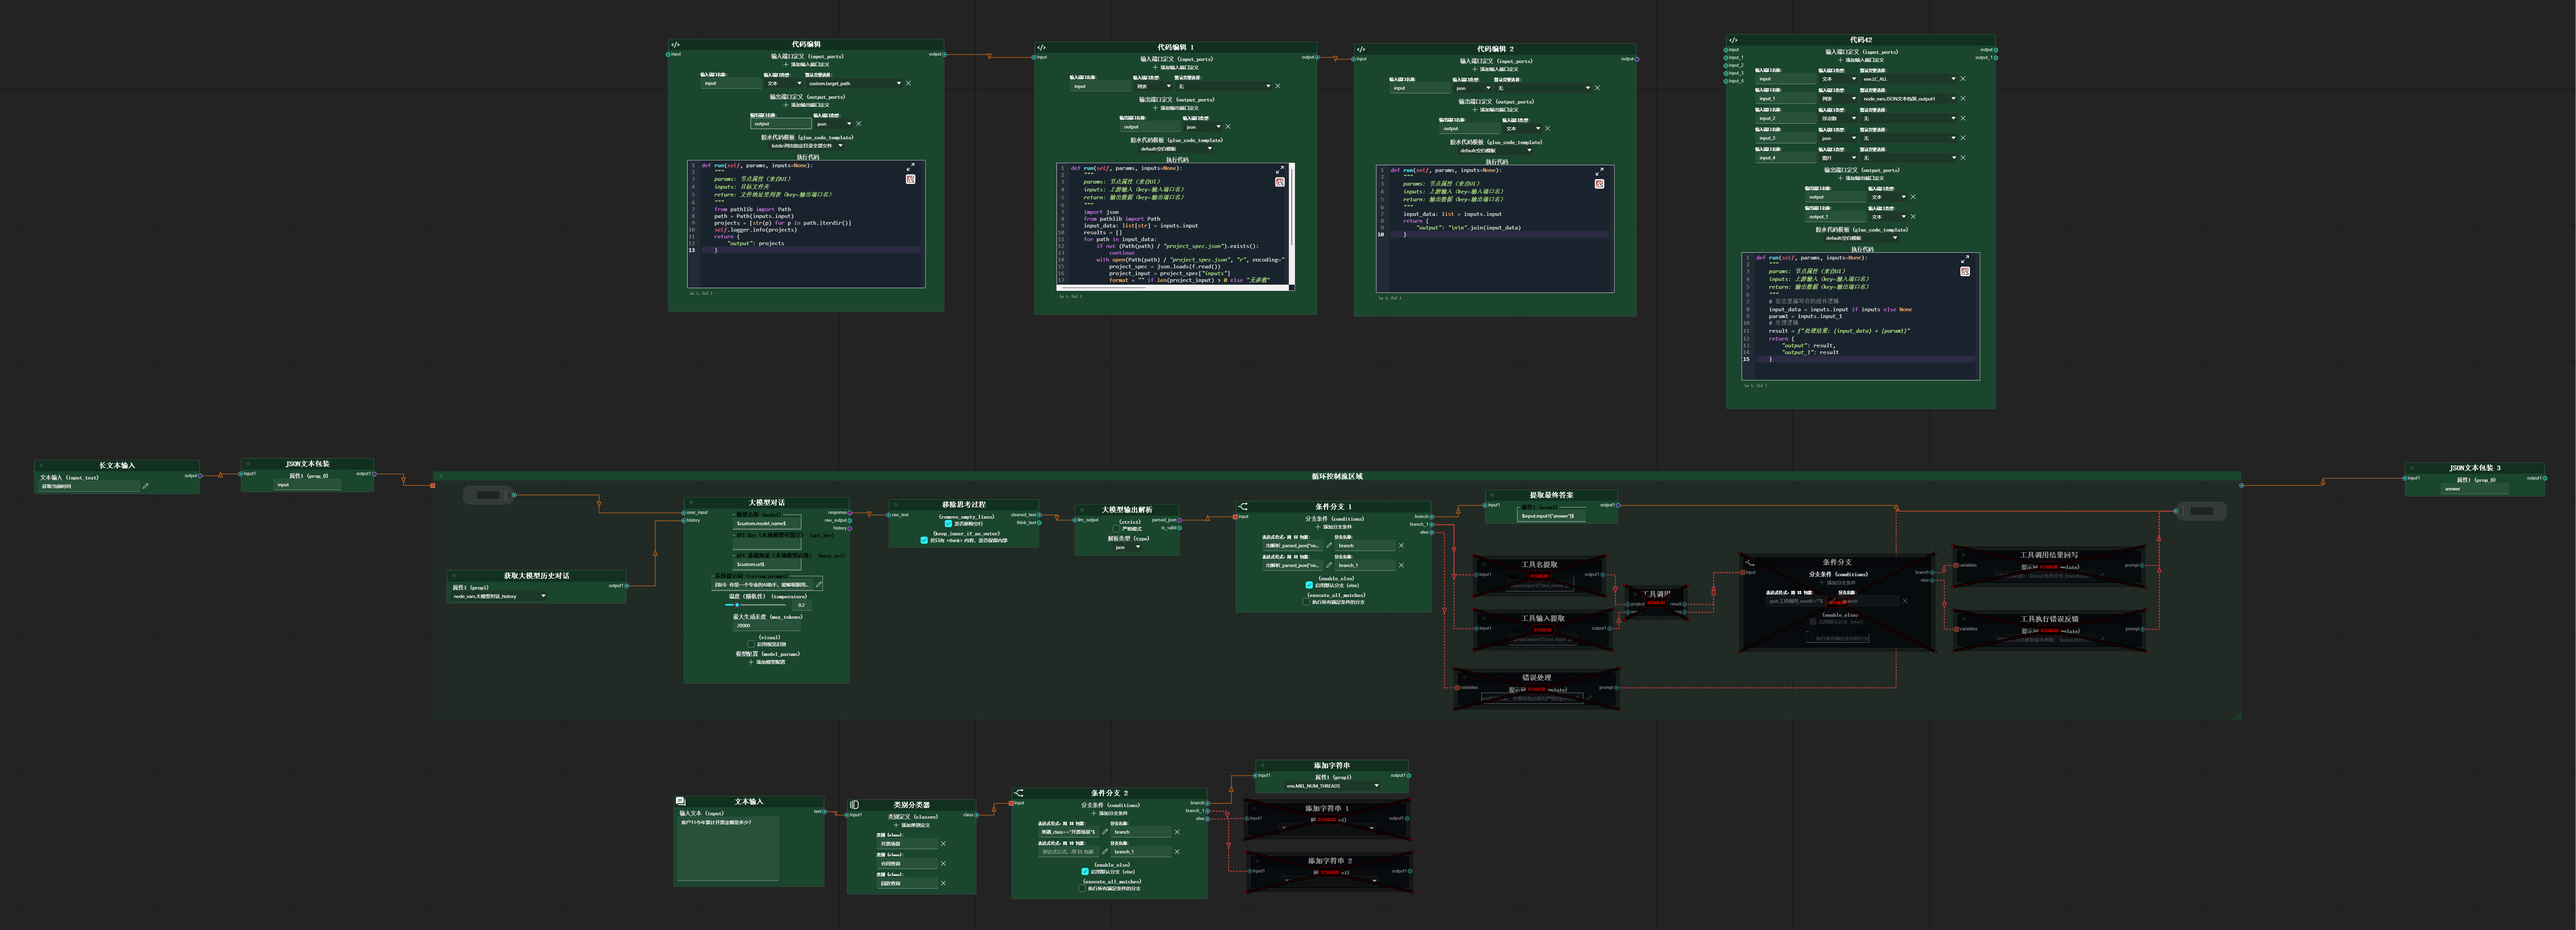
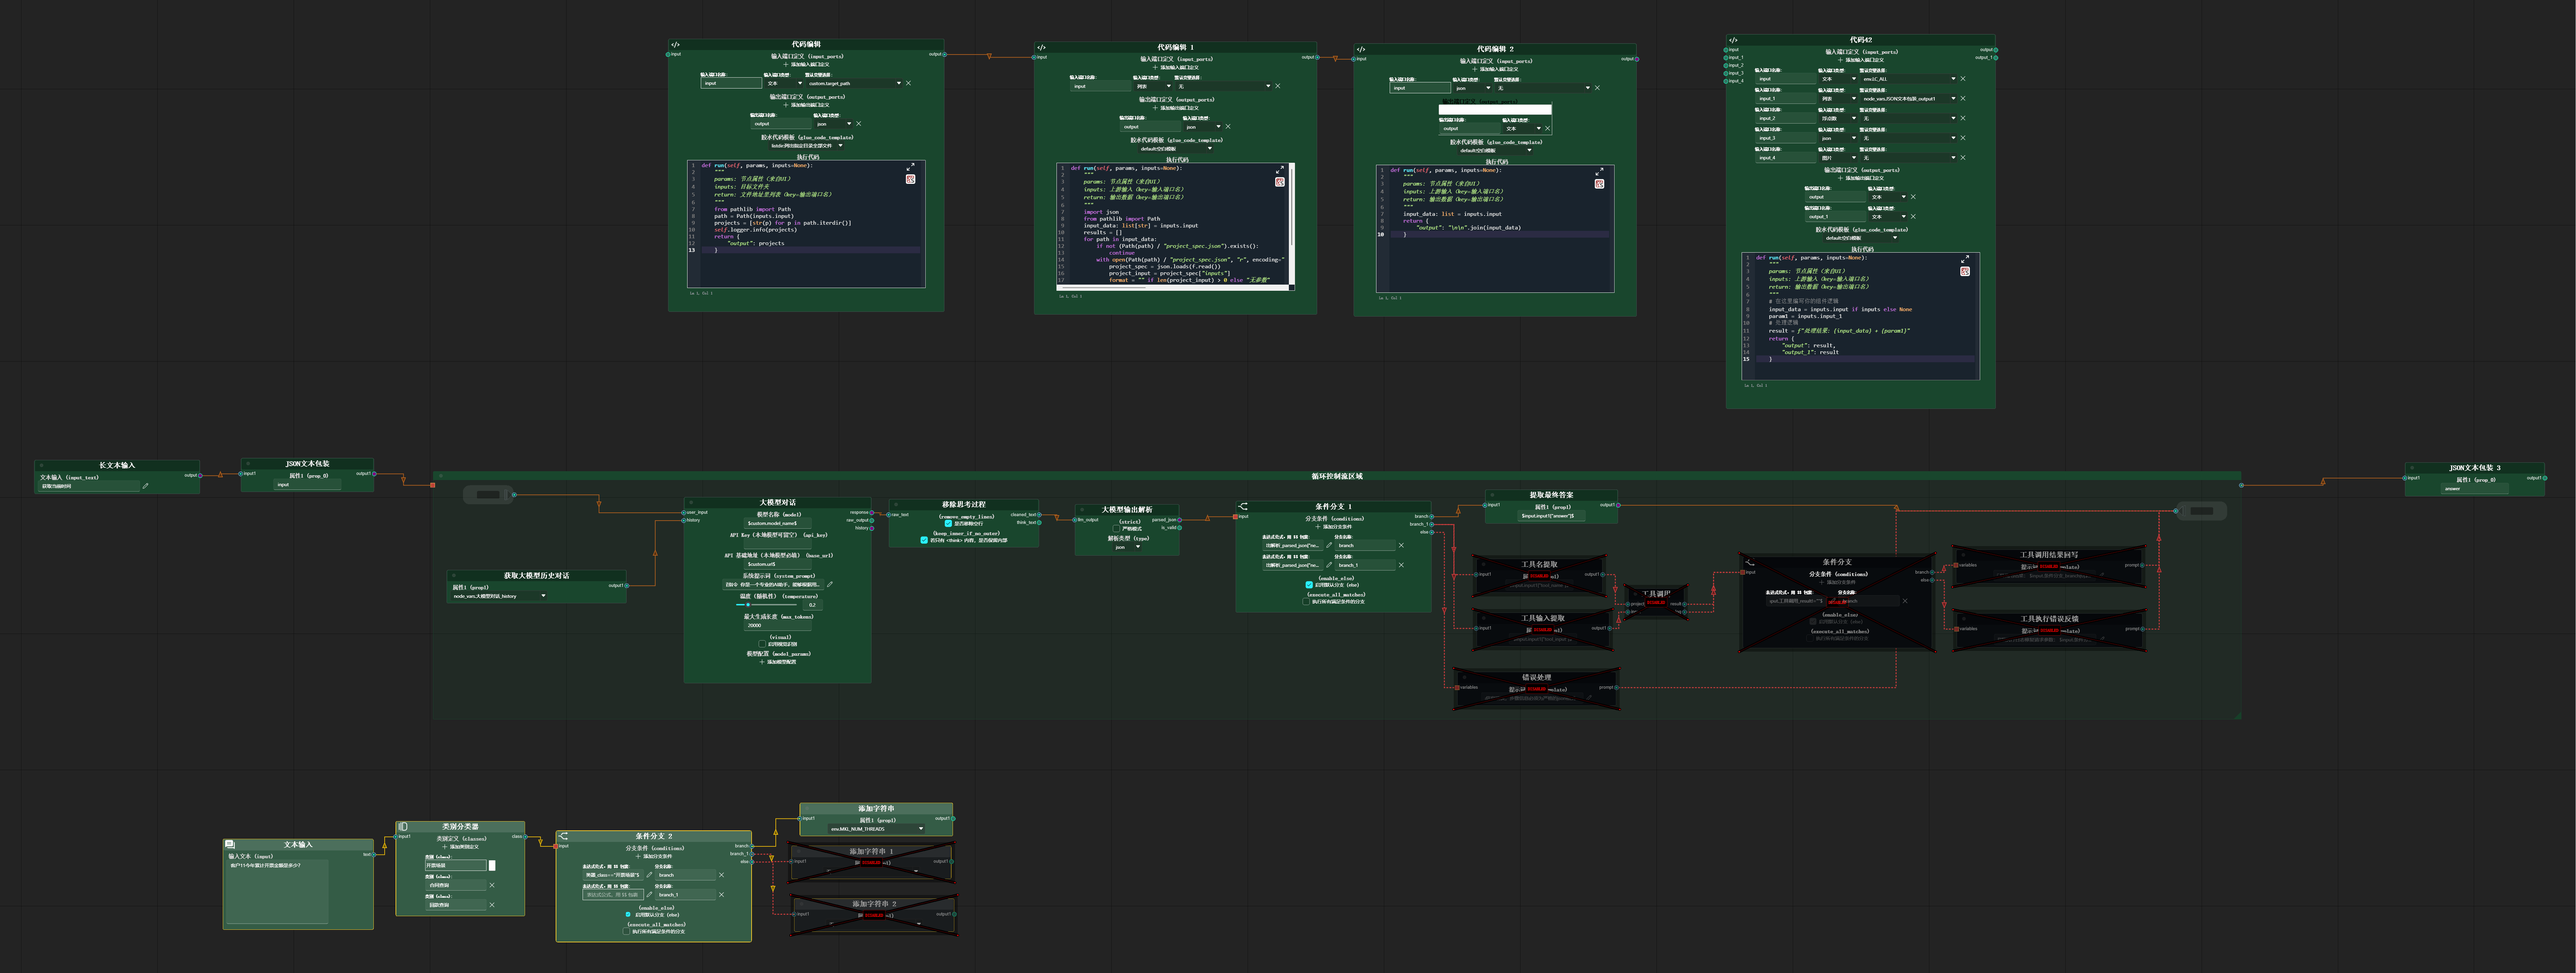
feat(base): 添加 __getattr__ 方法以支持属性访问
- 在 base.py 中新增 __getattr__ 方法，用于通过点号访问字典键值
- 修正大模型组件中的字段名称拼写错误，将 "class" 改为 "clas"
- 更新工作流 JSON 文件中所有节点 ID 和相关引用，确保一致性
- 调整部分节点的位置和宽度以优化画布布局
- 修改类别分类器的默认类别值，提高准确性
- 更新连接关系和环境配置，适配新的节点结构

diff --git a/app/components/大模型组件/d634710d-a760-40b6-a6f0-712bc5123aa1.py b/app/components/大模型组件/d634710d-a760-40b6-a6f0-712bc5123aa1.py
@@ -31,7 +31,7 @@ class Component(BaseComponent):
             type=PropertyType.DYNAMICFORM,
             label="类别定义",
             schema={
-                "class": PropertyDefinition(
+                "clas": PropertyDefinition(
                     type=PropertyType.TEXT,
                     default="",
                     label="类别",
@@ -58,7 +58,7 @@ class Component(BaseComponent):
         ## 用户问题
         {}
         """.format(
-            "\n".join([c.get("class") for c in params.classes]),
+            "\n".join([c.clas for c in params.classes]),
             inputs.input1
         )
         from openai import OpenAI

diff --git a/app/components/base.py b/app/components/base.py
@@ -458,6 +458,9 @@ class ModelMixin:
             return value if value is not None else default
         return default
 
+    def __getattr__(self, item: str):
+        return self.get(item)
+
     def __getitem__(self, key: str):
         """
         支持 item["key"] 语法
